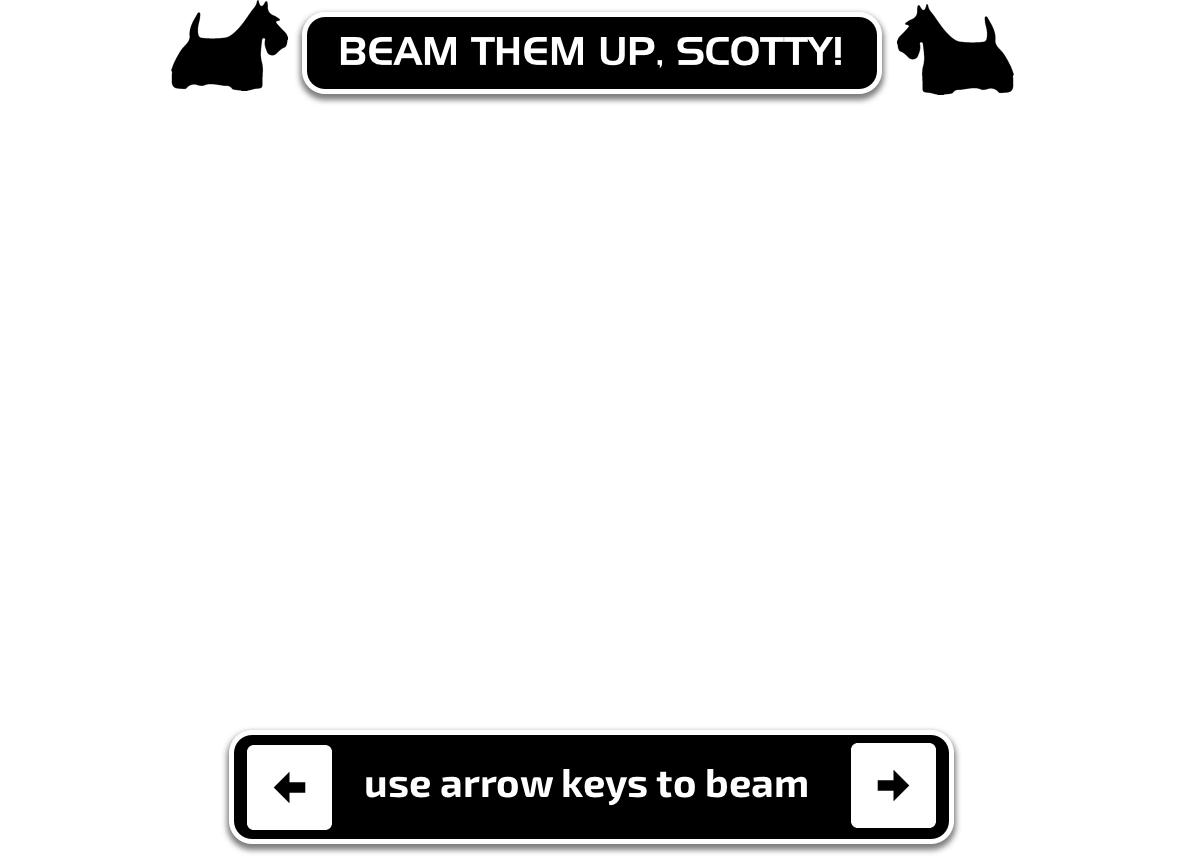
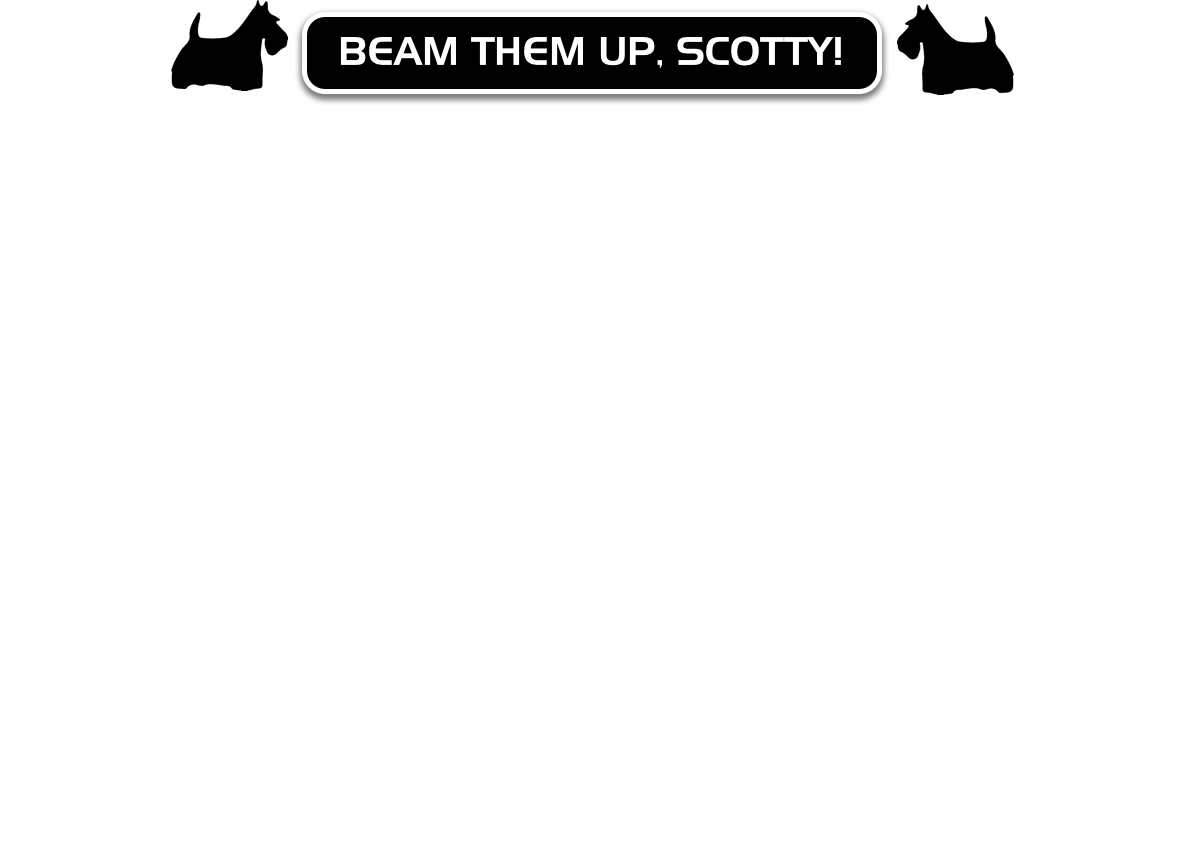
update UI for transporter room

Changed region(s): [[0.1827, 0.8505, 0.8223, 1.0]]

diff --git a/transporter-room-display/src/App.css b/transporter-room-display/src/App.css
@@ -45,12 +45,6 @@
   border-radius: 40px;
 }
 
-#arrows {
-  left: 673px;
-  top: 717px;
-  position: fixed;
-}
-
 #effect-layer {
   width: 1036px;
   height: 582px;
@@ -131,4 +125,26 @@
   height: 530px;
   left: 800px;
   position: fixed;
+}
+
+#arrow-keys {
+  position: fixed;
+  left: 598px;
+  top: 740px;
+  animation: 'swell' 3s infinite;
+}
+
+@keyframes swell {
+  0% {
+    width: 725px;
+    left: 598px;
+  }
+  50% {
+    width: 670px;
+    left: 620px;
+  }
+  100% {
+    width: 725px;
+    left: 598px;
+  }
 }

diff --git a/transporter-room-display/src/App.js b/transporter-room-display/src/App.js
@@ -99,6 +99,7 @@ class App extends Component {
           <img id="overlay-layer" src="./img/overlay.png" />
         </div>
         <img id="main-image-container" src="./img/beamup-frame.png" />
+        <img id="arrow-keys" src="./img/beamup-arrows.png" />
         <div id="thumbnail-container">{thumbnailImages}</div>
       </div>
     );
